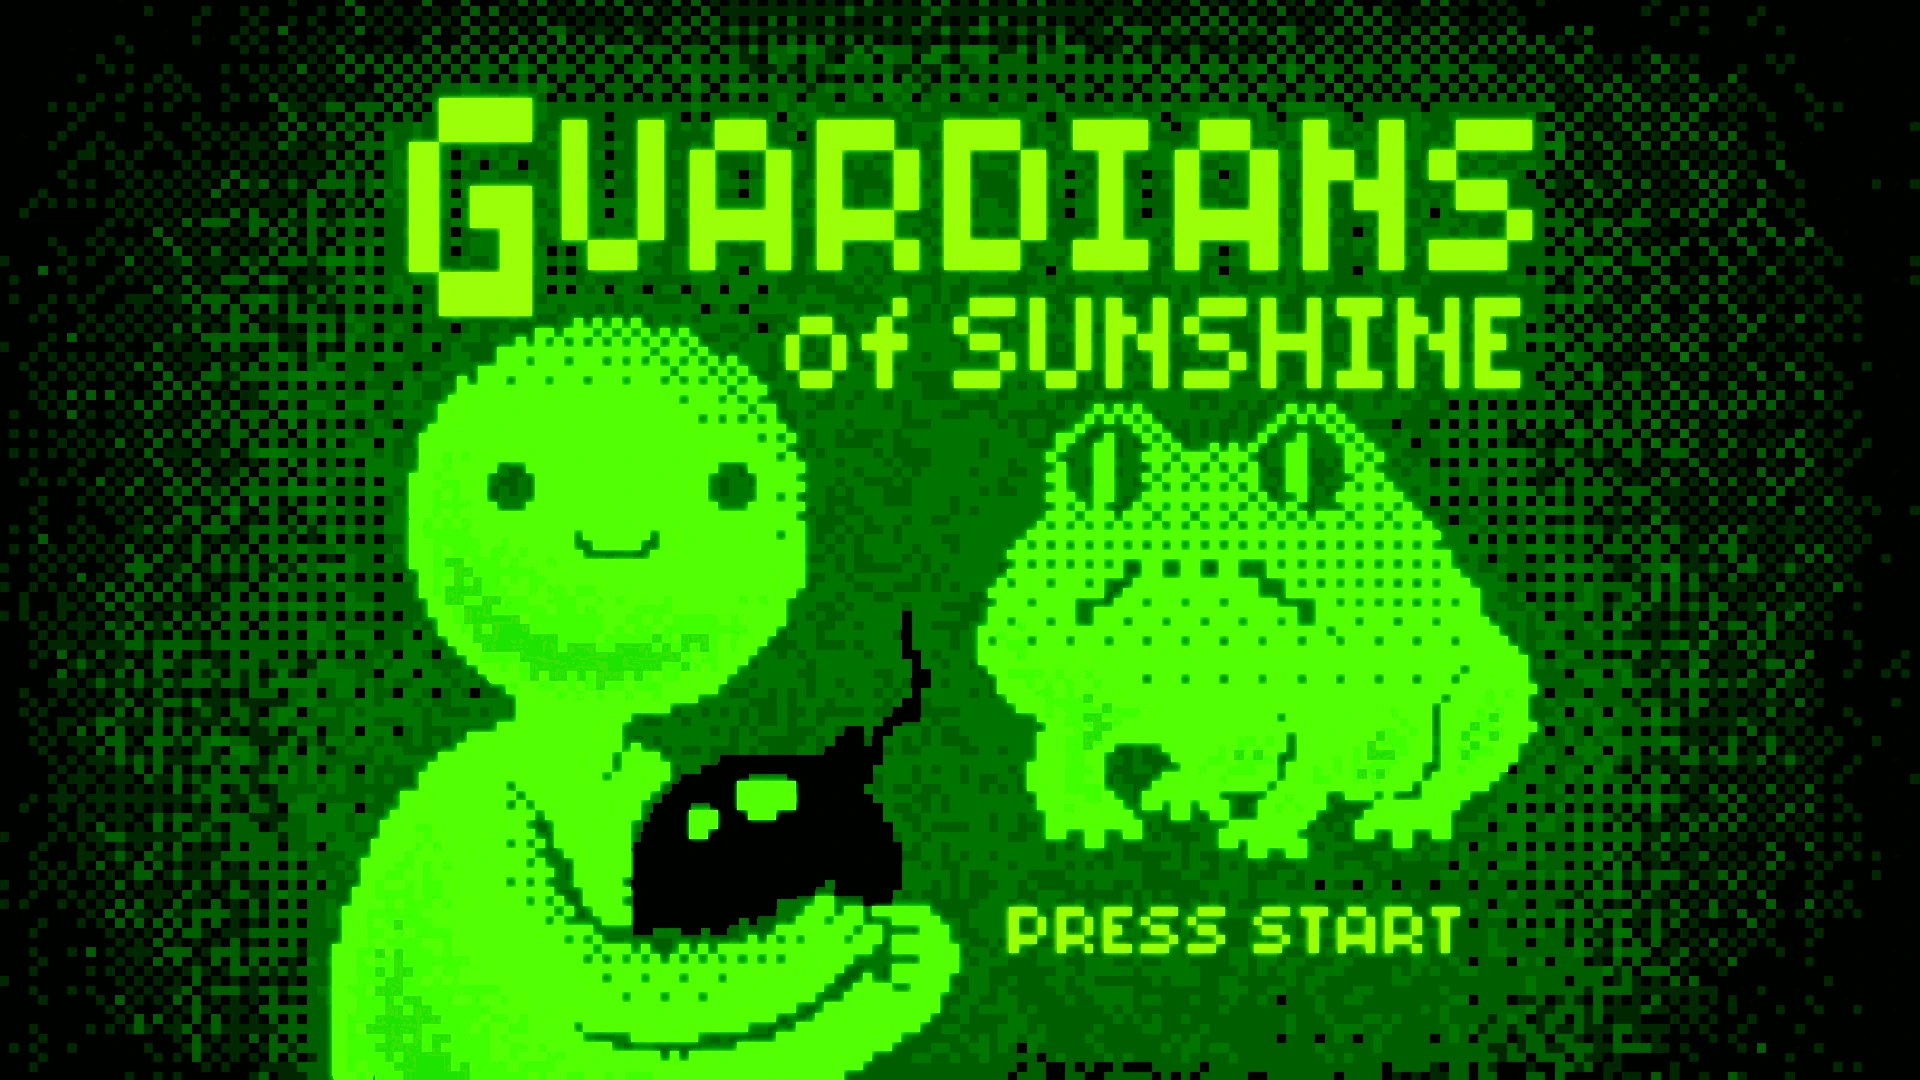
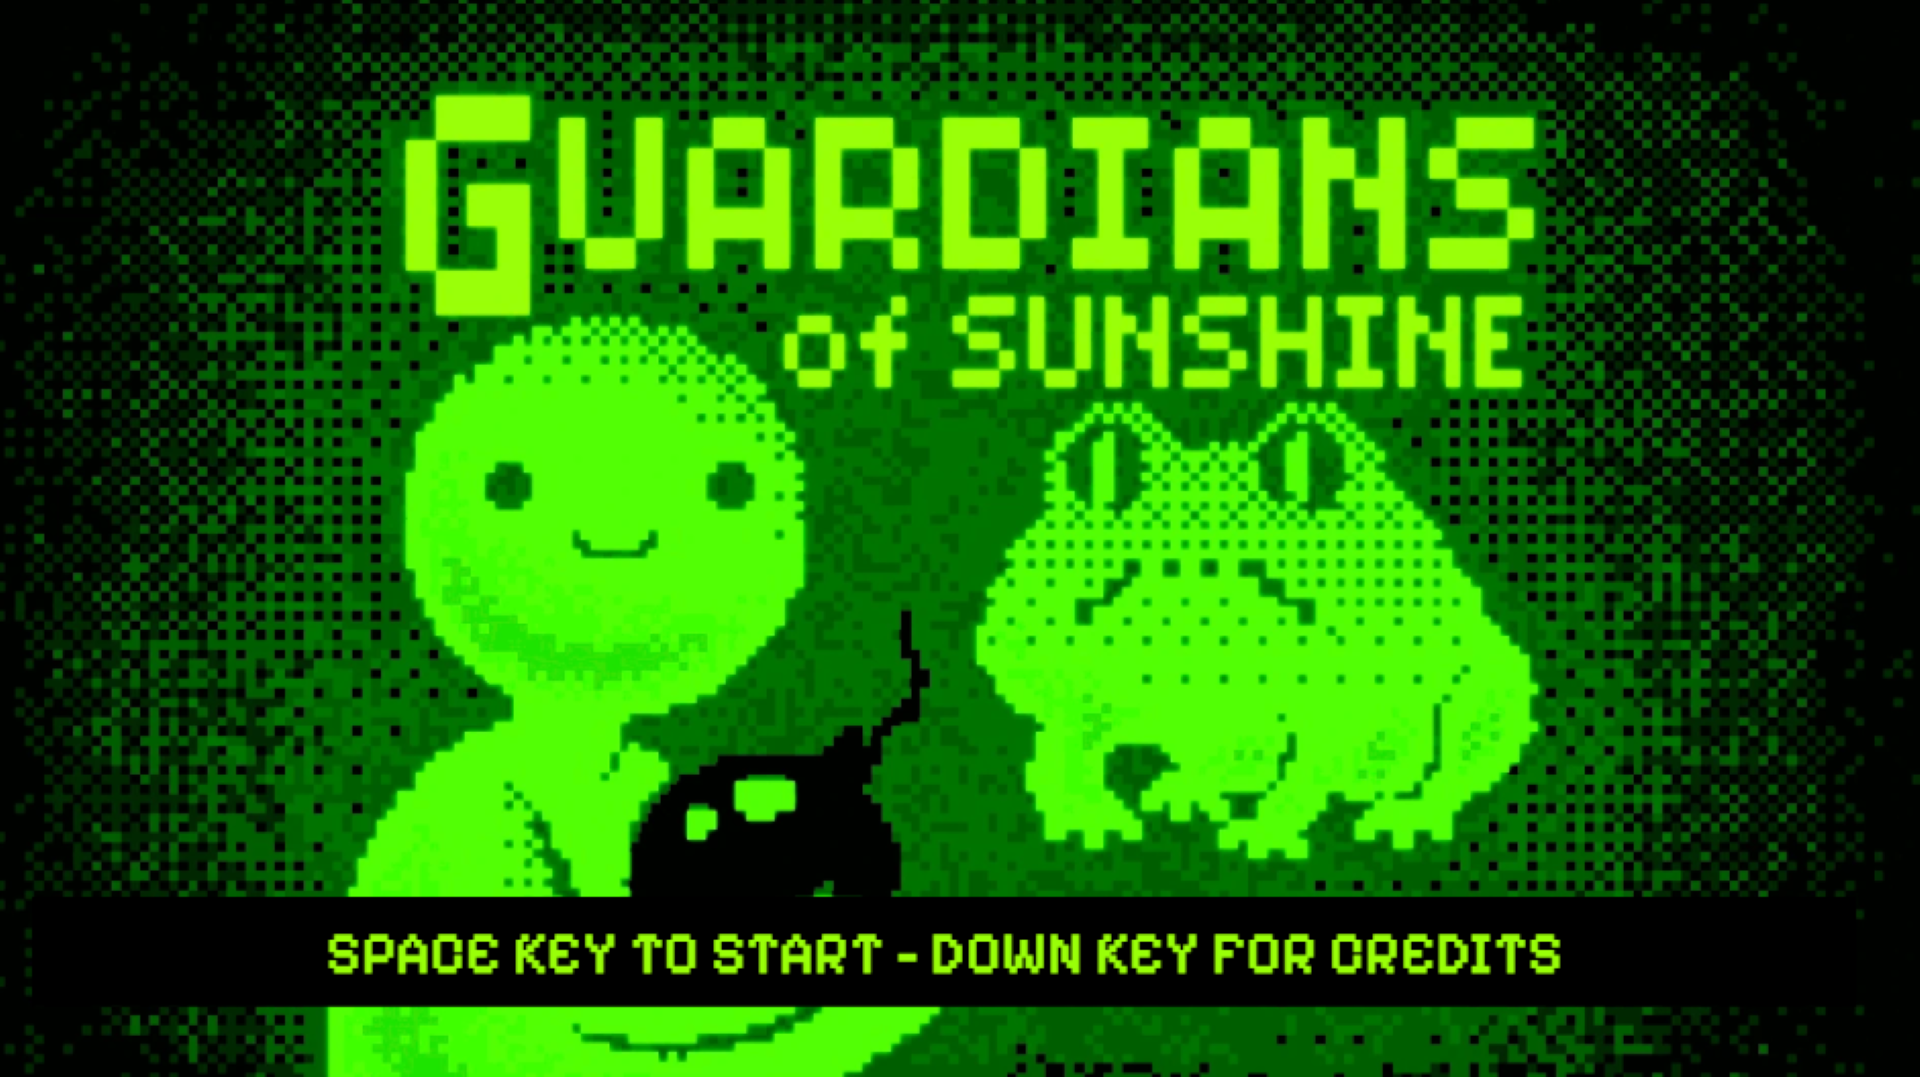
Edited start screen, replacing the original prompt from the image

diff --git a/src/scenes/Level_3.js b/src/scenes/Level_3.js
@@ -165,7 +165,7 @@ class Level_3 extends Phaser.Scene {
 
         this.input.keyboard.on('keycombomatch', () => {
             this.stop_the_count = true
-            
+            this.frog.health = 0
             this.scene.get('playScene').addScore(this.frog.points)
             this.scene.get('playScene').toggleBossUI(false)
             this.frog_active = false

diff --git a/src/prefabs/Bee.js b/src/prefabs/Bee.js
@@ -10,8 +10,8 @@ class Bee extends Phaser.Physics.Arcade.Sprite {
       this.body.setSize(57,43).setOffset(0, 0)
       this.body.pushable = false
       this.speed = 10
-      this.max_health = 15
-      this.health = 15
+      this.max_health = 18
+      this.health = 18
       this.points = 500
 
       this.active_x = 0

diff --git a/src/scenes/Load.js b/src/scenes/Load.js
@@ -131,7 +131,7 @@ class Load extends Phaser.Scene {
                 { key: 'start-screen-1' },
                 { key: 'start-screen-2' }
             ],
-            frameRate: 2,
+            frameRate: 1,
             repeat: -1
         });
 

diff --git a/src/prefabs/Bunny.js b/src/prefabs/Bunny.js
@@ -14,7 +14,7 @@ class Bunny extends Phaser.Physics.Arcade.Sprite {
 
 
       this.max_health = 9
-      this.health = 9
+      this.health = 15
       this.points = 800
 
       this.bound_x_min = 0
